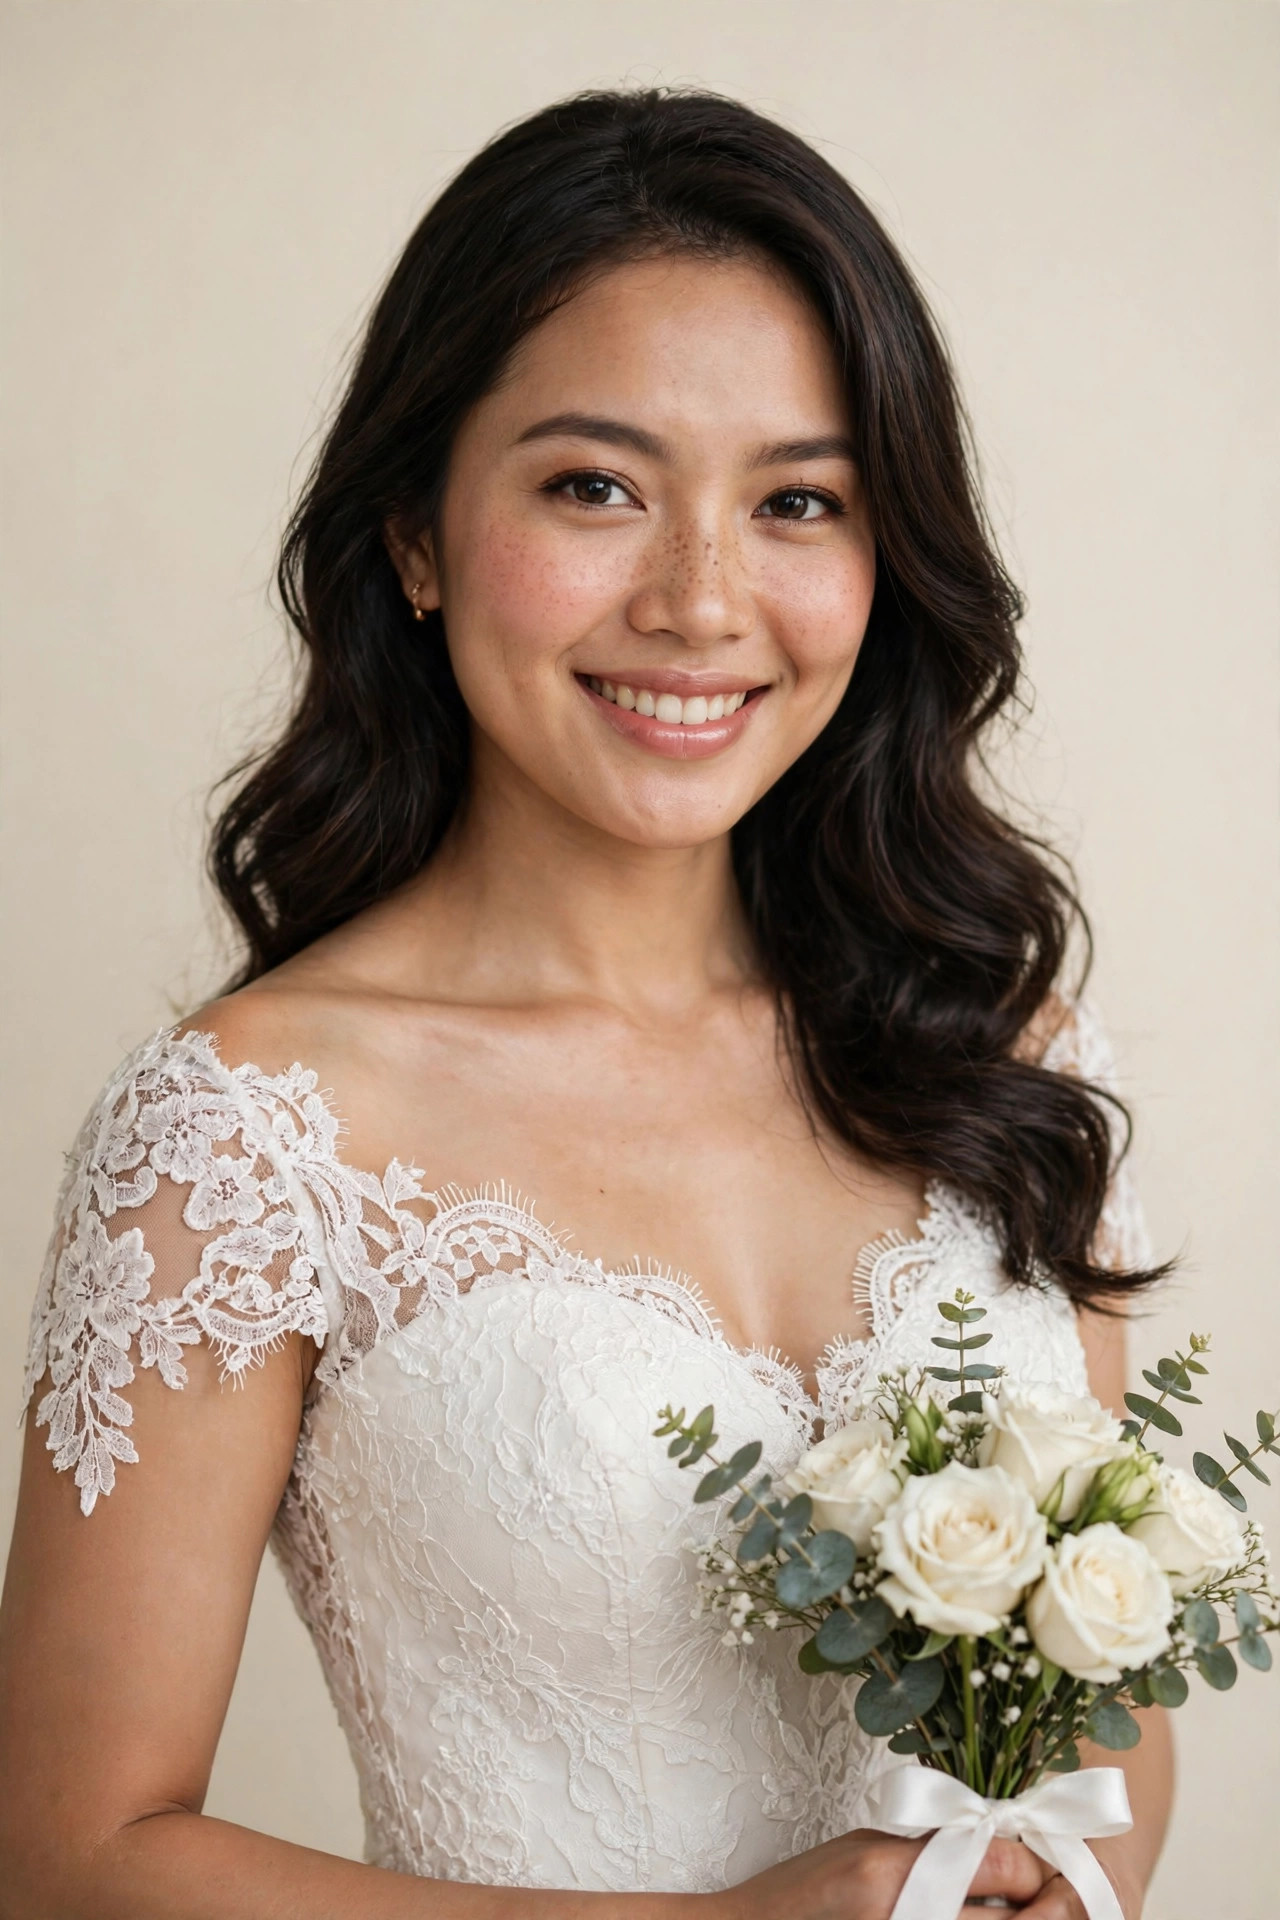
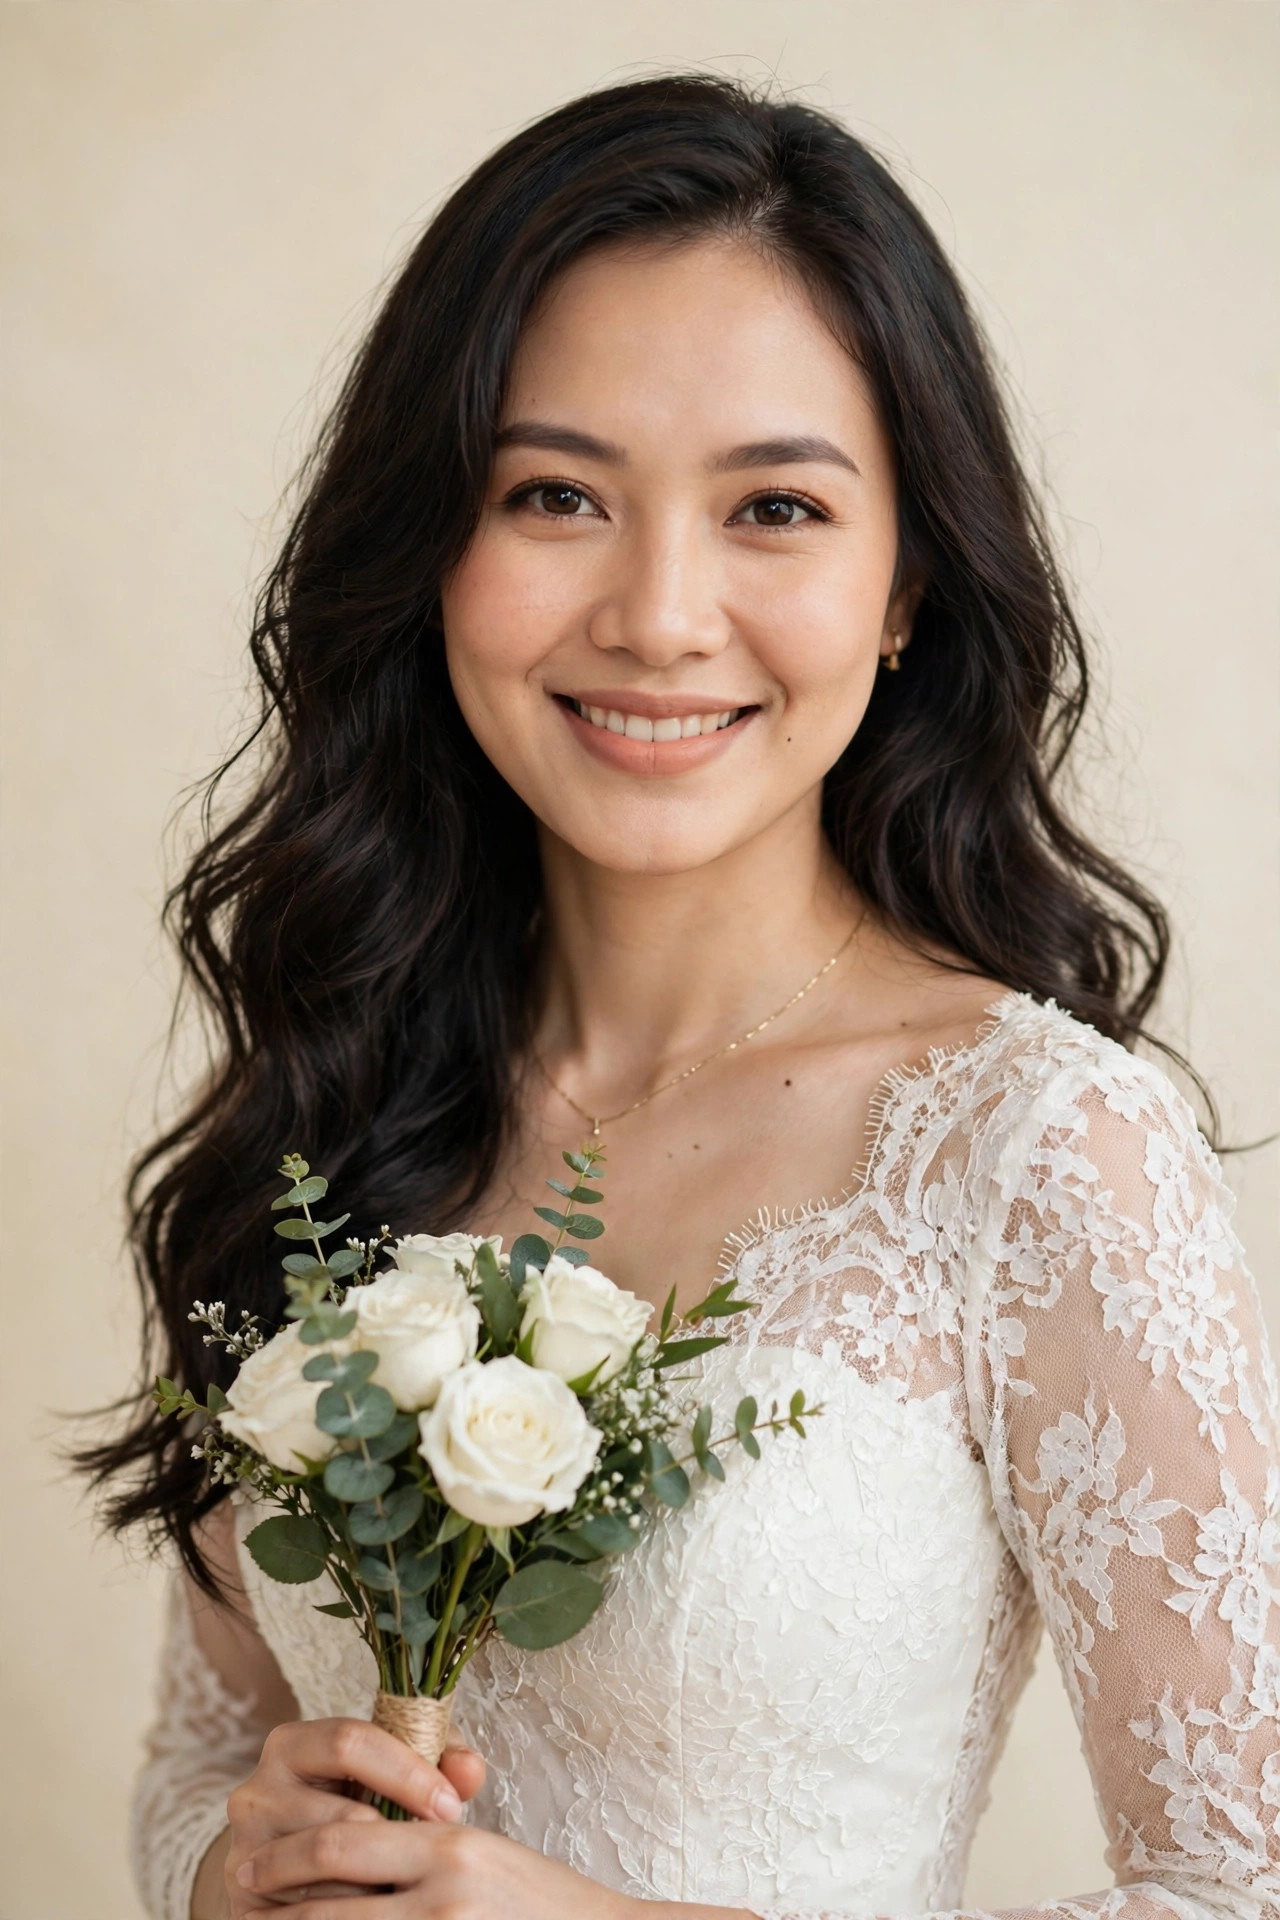
Tampilan realistis: data acara baru, foto mempelai & galeri baru

diff --git a/index.html b/index.html
@@ -80,8 +80,6 @@
 </style>
 </head>
 <body>
-<!-- SAMPLE BADGE (contoh untuk portofolio Fastwork) -->
-<div style="position:fixed;top:10px;left:50%;transform:translateX(-50%);z-index:9999;background:rgba(25,26,46,.88);color:#f4c95d;font-family:Georgia,serif;font-size:12px;letter-spacing:2px;padding:7px 16px;border-radius:999px;border:1px solid rgba(244,201,93,.6);pointer-events:none;white-space:nowrap;">CONTOH UNDANGAN &bull; SAMPLE BY @FUDAYAF</div>
 
 
 <!-- ================= COVER ================= -->
@@ -117,13 +115,13 @@
     <div class="card">
       <img class="foto-mempelai" src="foto-pria.jpg" alt="Foto mempelai pria" onerror="this.style.display='none'">
       <h2 style="font-size:24px" id="namaPria">Raka Pratama, S.T.</h2>
-      <p>Putra dari Bapak H. Pratama<br>&amp; Ibu Hj. Pratama</p>
+      <p>Putra dari Bapak H. Bambang Pratama<br>&amp; Ibu Hj. Sari Wulandari</p>
     </div>
     <div class="orn">&amp;</div>
     <div class="card">
       <img class="foto-mempelai" src="foto-wanita.jpg" alt="Foto mempelai wanita" onerror="this.style.display='none'">
       <h2 style="font-size:24px" id="namaWanita">Dinda Ayu Lestari, S.E.</h2>
-      <p>Putri dari Bapak H. Lestari<br>&amp; Ibu Hj. Lestari</p>
+      <p>Putri dari Bapak H. Dedi Lestari<br>&amp; Ibu Hj. Ratna Dewi</p>
     </div>
   </section>
 
@@ -144,15 +142,15 @@
     <div class="orn">❦</div>
     <div class="card">
       <h2 style="font-size:22px">Akad Nikah</h2>
-      <p><b>Sabtu, 19 Juni 2027</b><br>Pukul 08.00 WIB – selesai</p>
-      <p id="alamatAkad">Gedung Serbaguna Contoh<br>Jl. Merdeka No. 123, Jakarta</p>
+      <p><b>Sabtu, 12 September 2026</b><br>Pukul 08.00 WIB – selesai</p>
+      <p id="alamatAkad">Mahakam Grand Ballroom<br>Jl. Mahakam Raya No. 8, Kebayoran Baru, Jakarta Selatan</p>
     </div>
     <div class="card">
       <h2 style="font-size:22px">Resepsi</h2>
-      <p><b>Sabtu, 19 Juni 2027</b><br>Pukul 11.00 – 13.00 WIB</p>
-      <p id="alamatResepsi">Gedung Serbaguna Contoh<br>Jl. Merdeka No. 123, Jakarta</p>
+      <p><b>Sabtu, 12 September 2026</b><br>Pukul 11.00 – 13.00 WIB</p>
+      <p id="alamatResepsi">Mahakam Grand Ballroom<br>Jl. Mahakam Raya No. 8, Kebayoran Baru, Jakarta Selatan</p>
     </div>
-    <a class="btn" id="btnMaps" href="https://www.google.com/maps/search/?api=1&query=Gedung+Serbaguna+Jakarta" target="_blank" rel="noopener">📍 Buka Google Maps</a>
+    <a class="btn" id="btnMaps" href="https://www.google.com/maps/search/?api=1&query=Mahakam+Grand+Ballroom+Kebayoran+Baru+Jakarta+Selatan" target="_blank" rel="noopener">📍 Buka Google Maps</a>
   </section>
 
   <!-- ================= GALERI ================= -->
@@ -168,13 +166,13 @@
     <p>Doa restu Anda adalah hadiah terindah. Namun apabila berkenan memberikan tanda kasih, kami sediakan:</p>
     <div class="card">
       <p><b>BCA</b></p>
-      <p id="rek1" style="font-size:18px;letter-spacing:1px">1234567890</p>
+      <p id="rek1" style="font-size:18px;letter-spacing:1px">5420187630</p>
       <p>a.n. Raka Pratama</p>
       <button class="btn" onclick="salin('rek1')">Salin Nomor</button>
     </div>
     <div class="card">
       <p><b>DANA / OVO / GoPay</b></p>
-      <p id="rek2" style="font-size:18px;letter-spacing:1px">081234567890</p>
+      <p id="rek2" style="font-size:18px;letter-spacing:1px">081357294418</p>
       <p>a.n. Dinda Ayu Lestari</p>
       <button class="btn" onclick="salin('rek2')">Salin Nomor</button>
     </div>
@@ -194,8 +192,7 @@
       <button class="btn" style="width:100%" onclick="kirimUcapan()">Kirim Ucapan</button>
     </div>
     <div id="daftarUcapan"></div>
-    <p style="font-size:12px;color:var(--soft)">*Contoh tampilan — ucapan tersimpan di perangkat tamu (demo).
-      Untuk versi produksi, hubungkan ke database/Google Sheets.</p>
+    <p style="font-size:12px;color:var(--soft)">*Terima kasih atas ucapan dan doa restunya untuk kedua mempelai.</p>
   </section>
 
   <!-- ================= PENUTUP ================= -->
@@ -210,7 +207,7 @@
     <p>beserta keluarga besar</p>
   </section>
 
-  <footer>Template Undangan Digital — dibuat dengan HTML/CSS/JS<br><span style="font-size:11px">Musik contoh: "Canon in D Major" oleh Kevin MacLeod (incompetech.com) — CC BY 4.0</span></footer>
+  <footer>Raka &amp; Dinda — 12 . 09 . 2026<br><span style="font-size:11px">Undangan digital oleh @fudayaf &bull; Musik: "Canon in D Major" oleh Kevin MacLeod (incompetech.com) — CC BY 4.0</span></footer>
 </div>
 
 <!-- Musik: taruh file MP3 bernama musik.mp3 di folder assets -->
@@ -225,7 +222,7 @@ const CONFIG = {
   namaPria:   "Raka Pratama, S.T.",
   namaWanita: "Dinda Ayu Lestari, S.E.",
   // Tanggal acara untuk countdown (format: TAHUN-BULAN-TANGGAL JAM)
-  tanggalAcara: "2027-06-19T08:00:00+07:00",
+  tanggalAcara: "2026-09-12T08:00:00+07:00",
 };
 
 /* ---------- Nama tamu dari URL: ?to=Nama+Tamu ---------- */
